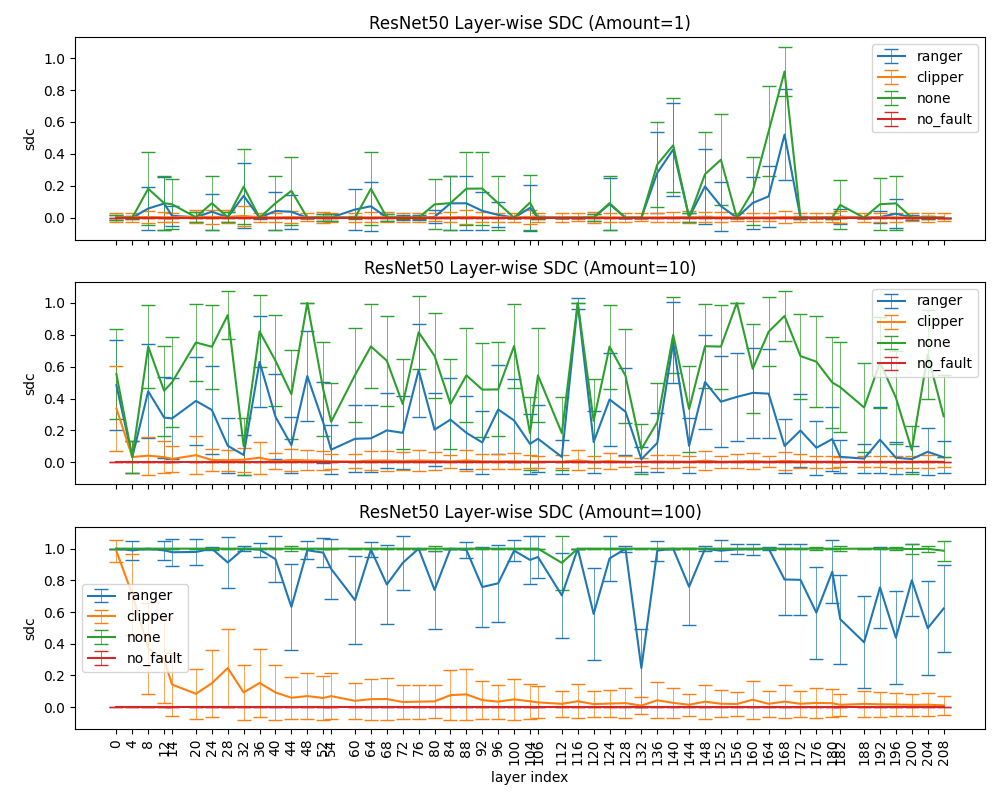
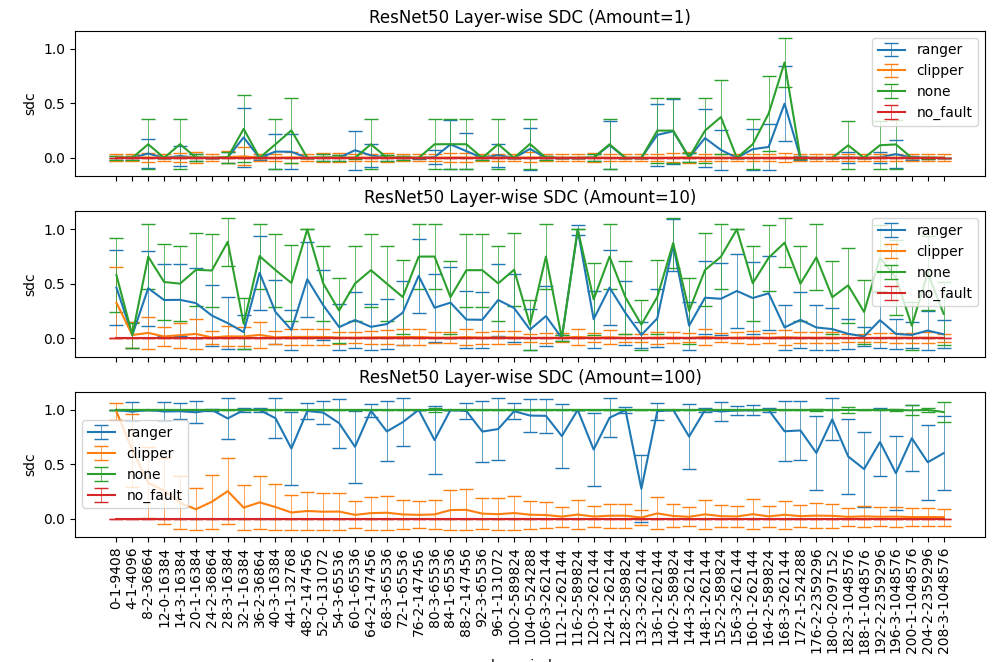
Add evaluation

diff --git a/clippervsranger/experiments/clippervsranger_base.py b/clippervsranger/experiments/clippervsranger_base.py
@@ -1,6 +1,8 @@
 import json
 import re
 
+import tensorflow as tf
+
 import pickle
 import random
 from abc import ABCMeta
@@ -143,13 +145,13 @@ class ClipperVSRangerBase(ExperimentBase, metaclass=ABCMeta):
     def layer_sdc(self):
 
         subplots = {}
+        m = self.get_model()
+        variable_names = {}
+        for i, t in enumerate(m.trainable_variables):
+            if 'conv' in t.name and 'kernel' in t.name:
+                variable_names[i] = re.match(r'.*?_?(\d+)_conv', t.name).groups()[0] + '-' + str(int(tf.size(t)))
         for amount in (1, 10, 100):
             y = []
-            m = self.get_model()
-            variable_names = {}
-            for i, t in enumerate(m.trainable_variables):
-                if 'conv' in t.name and 'kernel' in t.name:
-                    variable_names[i] = t.name
             accumulation = defaultdict(lambda: defaultdict(list))
             for evaluation in self.evaluations:
                 if evaluation['config']['Amount'] != amount:
@@ -177,7 +179,7 @@ class ClipperVSRangerBase(ExperimentBase, metaclass=ABCMeta):
                     y_.append((p, self.z * np.sqrt(p * (1 - p) / n)))
                 y.append(list(zip(*y_)))
             subplots['Amount={}'.format(amount)] = y
-        return [k for k in layer_keys], subplots
+        return ['-'.join([str(k), variable_names[k]]) for k in layer_keys], subplots
 
     def class_sdc(self):
         subplots = {}

diff --git a/dropin/experiments/alexnet.py b/dropin/experiments/alexnet.py
@@ -18,7 +18,7 @@ class AlexNet(ExperimentBase):
     checkpoint_filepath = 'tmp/weights/alexnet/alexnet'
     training_epochs = 250
     variants = ExperimentBase.variants + (
-        # 'dropin',
+        'dropin',
     )
     default_config = {
         'mode': 'evaluation'
@@ -83,7 +83,7 @@ class AlexNet(ExperimentBase):
         (train_images, train_labels), (test_images, test_labels) = keras.datasets.cifar10.load_data()
         test_ds = tf.data.Dataset.from_tensor_slices((test_images, test_labels))
         s = tf.data.Dataset.cardinality(test_ds)
-        test_ds = test_ds.shuffle(buffer_size=s).take(256).batch(256).map(self.process_images)
+        test_ds = test_ds.shuffle(buffer_size=s).batch(256).map(self.process_images)
         return test_ds
 
     def compile_model(self, model):
@@ -205,13 +205,8 @@ class AlexNet(ExperimentBase):
         tflite_quant_model = converter.convert()
         logger.info('Model quantized for tensorflow lite successfully')
 
-    def summary(self):
-        self.get_model().summary()
-
     def train_with_dropin(self):
         self.train(dropin=True)
 
     def get_variant_dropin(self, model, name):
-        model = self.copy_model(model, name=name)
-        model.set_weights(self.get_checkpoint_filepath('dropin'))
-        return model
+        return self.get_model(name=name, training_variant='dropin')

diff --git a/clippervsranger/layers.py b/clippervsranger/layers.py
@@ -14,7 +14,7 @@ class ProfileLayer(Layer):
             maximum = np.max(matrix)
             minimum = np.min(matrix)
             self.profile[self.name].append([maximum, minimum])
-            matrix = np.count_nonzero(np.maximum(0, matrix - minimum), axis=len(matrix.shape) - 1)
+            matrix = np.count_nonzero(np.maximum(0, matrix - (maximum + minimum) / 2), axis=len(matrix.shape) - 1)
             matrix = np.average(matrix)
             self.activated_channels[self.name].append(matrix)
         return super().call(inputs, **kwargs)

diff --git a/base/experiments/experiment_base.py b/base/experiments/experiment_base.py
@@ -338,3 +338,6 @@ class ExperimentBase:
         self.compile_model(model)
         dataset = self.get_dataset()
         model.fit(dataset)
+
+    def summary(self):
+        self.get_model().summary()
